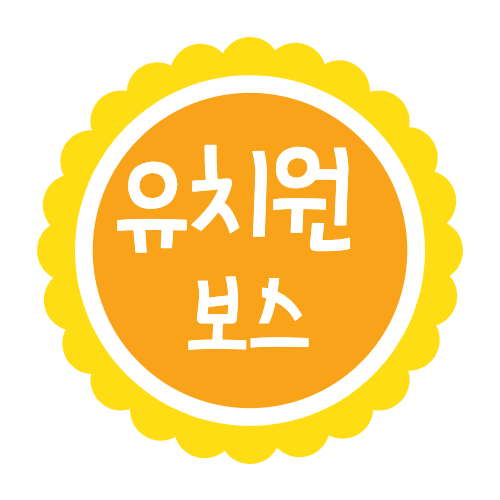
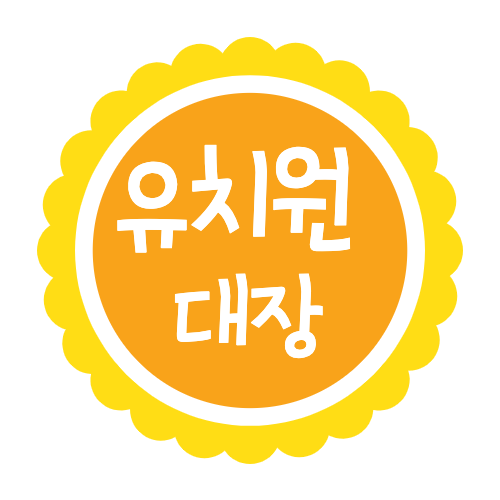
Update: more text

Changed region(s): [[0.33, 0.54, 0.66, 0.72]]

diff --git a/src/scenes/more/help/index.js b/src/scenes/more/help/index.js
@@ -7,17 +7,31 @@ const HelpScreen = ({navigation}) => {
     return (
         <SafeAreaView style={styles.container}>
             <ScrollView style={styles.content}>
-                <Title>1. 식품대장 소개</Title>
-                <Paragraph>안녕하세요! 식품대장입니다.</Paragraph>
-                <Paragraph>식품대장은 온가족의 안전한 식생활을 위해 식품의약품안전처에서 제공하는 데이터를 쉽고 편안하게 볼 수 있도록 변환하여 불량 식품 정보를 알려드리고 있습니다.</Paragraph>
+                <Title>1. 유치원 대장 소개</Title>
+                <Paragraph>안녕하세요! 유치원 대장입니다.</Paragraph>
+                <Paragraph>유치원 대장은 유치원 전반의 주요 정보를 객관적이고 투명하게 공개하는 유치원 알리미의 공시제도를 이용한 서비스입니다.</Paragraph>
+                <Paragraph>학부모의 알권리를 보장하고 유치원의 실태를 정확하게 파악하여 유아 교육의 질을 높이기 위한 제도입니다.</Paragraph>
                 <Title/>
-                <Title>2. 주요 정보 출처 및 요약설명</Title>
-                <Subheading style={styles.bold}>허위·과대광고 정보</Subheading>
-                <Paragraph>- 식품의약품안전처의 허위·과대광고 정보 서비스 API를 이용하고 있습니다.</Paragraph>
-                <Subheading style={styles.bold}>회수·판매중지 정보</Subheading>
-                <Paragraph>- 식품의약품안전처의 회수·판매중지 정보 서비스 API를 이용하고 있습니다.</Paragraph>
+                <Title>2. 정보공시항목</Title>
+                <Subheading style={styles.bold}>수시</Subheading>
+                <Paragraph>- 식단표, 위반내용 및 조치결과</Paragraph>
+                <Subheading style={styles.bold}>4월 정시</Subheading>
+                <Paragraph>- 기관 기본현황, 원장명, 설립·경영자명, 유치원 규칙, 교지·교사 등 시설현황, 연령별 학급 수·원아 수</Paragraph>
+                <Paragraph>- 직위·자격별 교직원현황, 교사의 현 기관 근속연수, 교육과정 편성·운영에 관한 사항, 방과후 과정 편성·운영에 관한 사항, 수업일수 현황</Paragraph>
+                <Paragraph>- 교육과정비, 방과후 과정 운영비, 특성화 활동비, 유치원 회계 예산서, 급식실시 및 급식사고 발생·처리 현황, 환경위생관리 현황</Paragraph>
+                <Paragraph>- 안전점검 및 안전교육 현황, 공제회 및 보험가입 현황, 통학차량 운영 현황, 유치원 평가에 관한 사항</Paragraph>
+                <Subheading style={styles.bold}>10월 정시</Subheading>
+                <Paragraph>- 원장명, 설립·경영자명, 연령별 학급수·원아수, 직위·자격별 교원현황, 교사의 현 기관 근속연수, 교육과정비, 방과후 과정 운영비, 특성화 활동비</Paragraph>
+                <Paragraph>- 유치원 회계 결산서, 급식실시 및 급식사고 발생· 처리 현황, 환경위생관리 현황, 안전점검 및 안전교육 현황, 공제회 및 보험가입 현황, 통학차량 운영 현황</Paragraph>
                 <Title/>
-                <Title>3. 제휴 및 문의 사항</Title>
+                <Title>3. 유치원 원비현황</Title>
+                <Paragraph>- 학부모가 부담하는 자녀의 유치원 경비를 공시하는 것으로 입학경비와 교육과정 교육비, 방과후 과정 교육비가 공시 됩니다.</Paragraph>
+                <Paragraph>- 법적근거: 유아교육법 시행규칙 제6조(수업료 등의 결정 및 공고)</Paragraph>
+                <Paragraph>- 입학경비: 입학금, 원복비, 기타경비 등 포함</Paragraph>
+                <Paragraph>- 교육과정 교육비: 수업료, 간식비, 급식비, 교재비 및 재료비, 차량운영비, 현장학습비, 기타경비 등 포함</Paragraph>
+                <Paragraph>- 방과후 과정 교육비: 수업료, 간식비, 급식비, 교재비 및 재료비, 차량운영비, 현장학습비, 기타경비 등 포함</Paragraph>
+                <Title/>
+                <Title>4. 제휴 및 문의 사항</Title>
                 <Paragraph>제휴 및 문의 사항은 아래 연락처로 주시면 검토후 연락드리겠습니다.</Paragraph>
                 <Subheading style={styles.bold}>이메일</Subheading>
                 <Paragraph>dilrong@dilrong.com</Paragraph>

diff --git a/src/scenes/more/list/index.js b/src/scenes/more/list/index.js
@@ -30,8 +30,6 @@ const ListScreen = ({navigation}) => {
     const Profile = () => (
         <View style={styles.profile}>
           <Image style={styles.profile_img} source={require('_assets/icon.png')}/>
-          <Title>식품대장</Title>
-          <Subheading style={styles.profile_name}>불량식품은 이제 그만!</Subheading>
         </View>
       )
 
@@ -58,13 +56,13 @@ const ListScreen = ({navigation}) => {
             <FlatList data={DATA} renderItem={renderItem} keyExtractor={item => item.id}/>
             <Button icon="share-variant" mode="outlined" style={styles.shareButton} color="#000" onPress={() => { 
                 Share.share({
-                    title: '식품대장 - 불량 식품은 이제 그만!',
+                    title: '유치원 대장 - 유치원 정보를 여기서!',
                     message: 'https://play.google.com/store/apps/details?id=com.dilrong.foodboss'
                 })
-            }}>식품대장 공유하기</Button>
+            }}>유치원 대장 공유하기</Button>
             <Button icon="star" mode="outlined" style={styles.shareButton} color="#000" onPress={() => {
                 Linking.openURL('https://play.google.com/store/apps/details?id=com.dilrong.foodboss')
-            }}>식품대장 칭찬하기</Button>
+            }}>유치원 대장 칭찬하기</Button>
         </SafeAreaView>
     )
 }

diff --git a/index.js b/index.js
@@ -1,6 +1,6 @@
 import { registerRootComponent } from 'expo';
 
-import App from './App';
+import App from './src';
 
 // registerRootComponent calls AppRegistry.registerComponent('main', () => App);
 // It also ensures that whether you load the app in the Expo client or in a native build,

diff --git a/src/styles/colors.js b/src/styles/colors.js
@@ -1,5 +1,5 @@
-export const PRIMARY = '#CE6D39';
-export const SECONDARY = '#F17F42';
+export const PRIMARY = '#FFDD15';
+export const SECONDARY = '#F9A31A';
 export const WHITE = '#FFFFFF';
 export const BLACK = '#000000';
 
